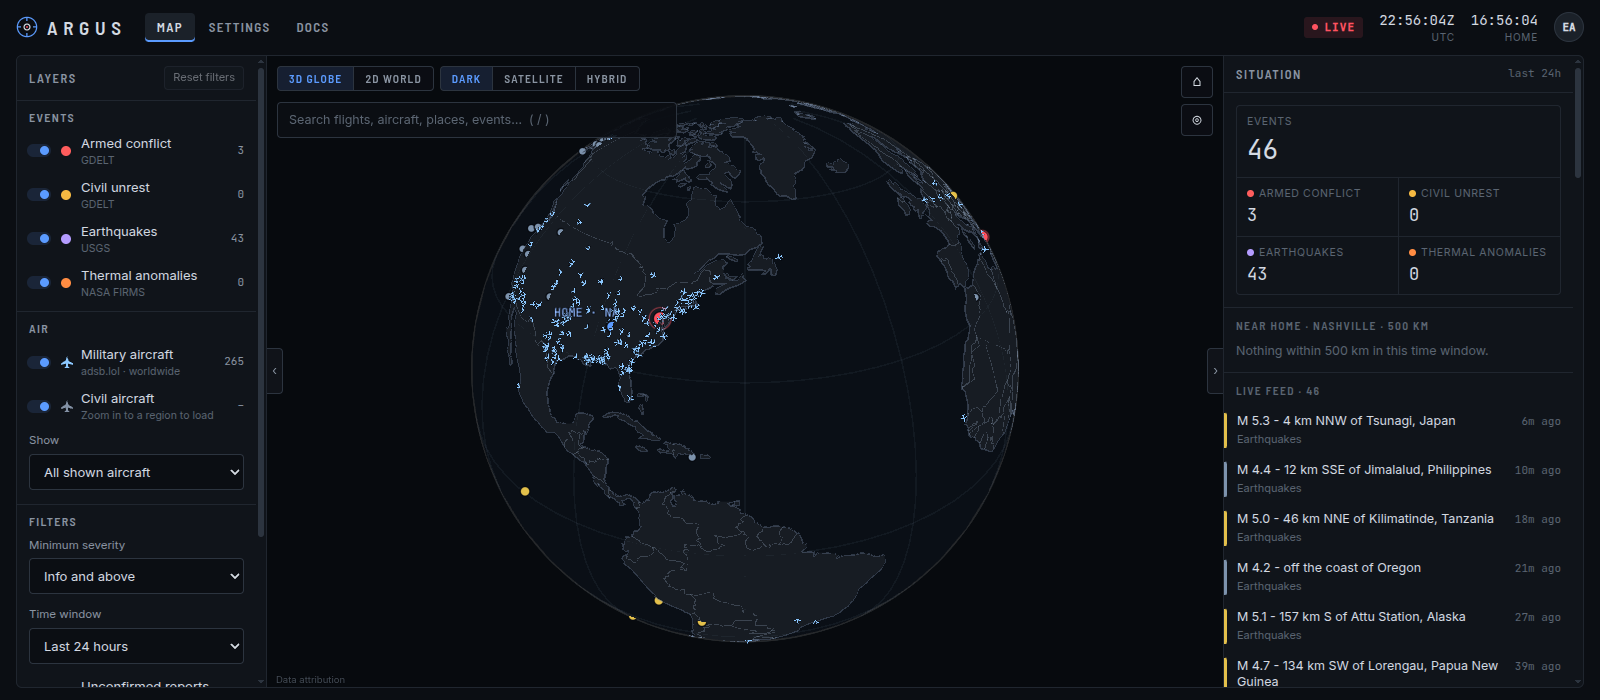
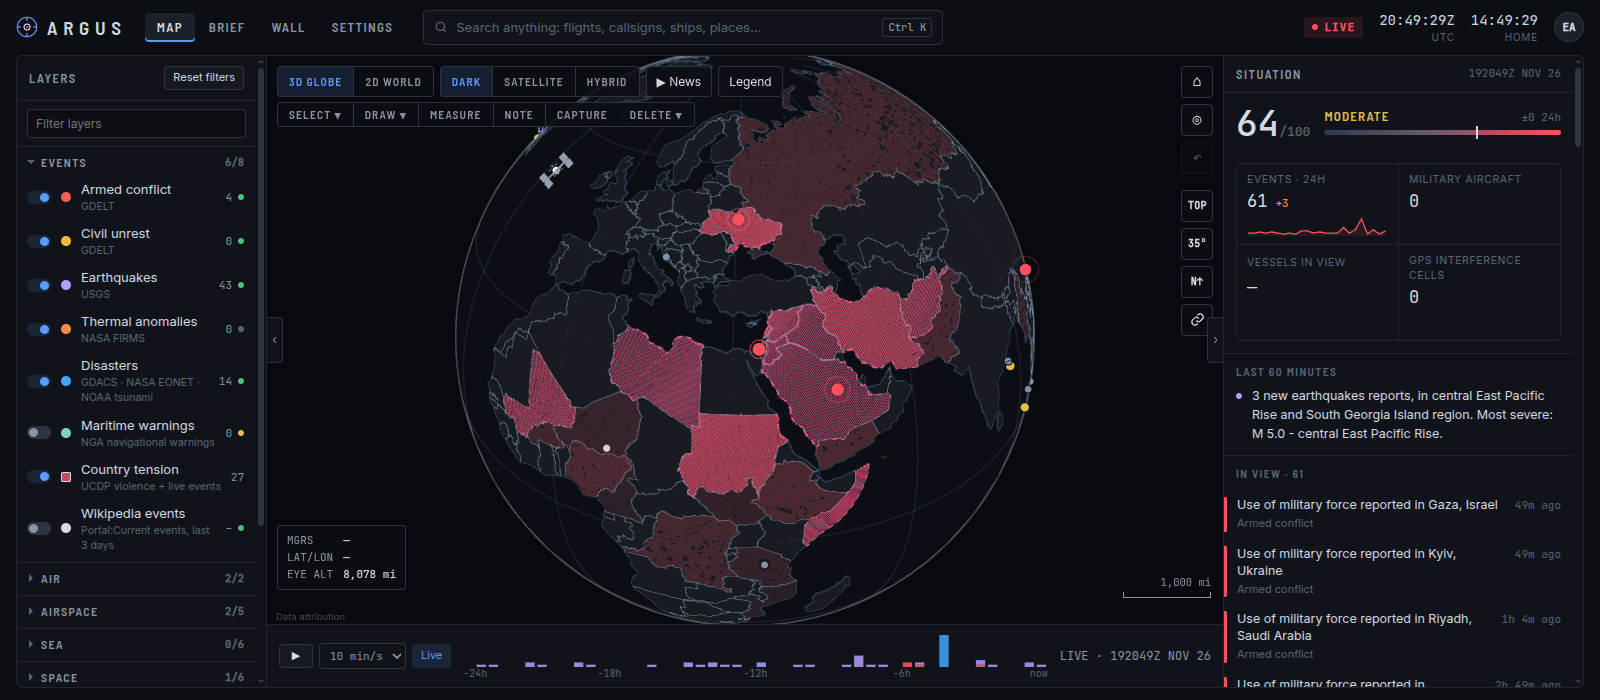
docs: fresh screenshots and features; simpler restore
The README shows today's map (tension, conflict zones), the Brief, the
Wall and a traffic camera, drops the old street-level shot, and lists
what Argus does now instead of calling weather, video and the Wall
coming next.

Restoring in Settings > Backups no longer asks you to type 'restore':
choose the file and the page shows what it is (when it was made,
version, size, read from the archive in the browser), then tick
'Replace all of this server's data', enter your password and Restore.

diff --git a/frontend/src/components/BackupsSection.tsx b/frontend/src/components/BackupsSection.tsx
@@ -8,6 +8,54 @@ import { csrfToken } from '../lib/api';
 // the accounts from the backup.
 
 type Status = { state: 'idle' | 'running' | 'done' | 'failed'; message: string };
+type Manifest = { created_utc?: string; version?: string; schema_revision?: string; database_bytes?: number };
+
+// The manifest inside a backup (.tar.gz), read in the browser so you can
+// see what you're about to restore. Null if it isn't readable.
+async function readManifest(file: File): Promise<Manifest | null> {
+  try {
+    const stream = file.stream().pipeThrough(new DecompressionStream('gzip'));
+    const reader = stream.getReader();
+    let buf = new Uint8Array(0);
+    // A tar is 512-byte headers each followed by the file; the manifest is
+    // small and usually near the start, but read until it turns up.
+    for (let offset = 0; ;) {
+      while (buf.length < offset + 512) {
+        const { value, done } = await reader.read();
+        if (done) return null;
+        const next = new Uint8Array(buf.length + value.length);
+        next.set(buf);
+        next.set(value, buf.length);
+        buf = next;
+      }
+      const header = buf.subarray(offset, offset + 512);
+      const name = new TextDecoder().decode(header.subarray(0, 100)).replace(/\0.*$/s, '');
+      if (!name) return null;
+      const size = parseInt(new TextDecoder().decode(header.subarray(124, 136)).replace(/\0.*$/s, '').trim() || '0', 8);
+      const start = offset + 512;
+      if (name.endsWith('/manifest.json')) {
+        while (buf.length < start + size) {
+          const { value, done } = await reader.read();
+          if (done) return null;
+          const next = new Uint8Array(buf.length + value.length);
+          next.set(buf);
+          next.set(value, buf.length);
+          buf = next;
+        }
+        void reader.cancel();
+        return JSON.parse(new TextDecoder().decode(buf.subarray(start, start + size))) as Manifest;
+      }
+      offset = start + Math.ceil(size / 512) * 512;
+      // Drop what's behind us so a big dump doesn't fill memory.
+      if (offset > 8 * 1024 * 1024) {
+        buf = buf.subarray(offset);
+        offset = 0;
+      }
+    }
+  } catch {
+    return null;
+  }
+}
 
 function detail(text: string, fallback: string): string {
   try {
@@ -25,7 +73,8 @@ export default function BackupsSection() {
 
   const [file, setFile] = useState<File | null>(null);
   const [pw2, setPw2] = useState('');
-  const [confirm, setConfirm] = useState('');
+  const [agree, setAgree] = useState(false);
+  const [manifest, setManifest] = useState<Manifest | null | 'reading'>(null);
   const [progress, setProgress] = useState<number | null>(null);
   const [status, setStatus] = useState<Status | null>(null);
   const [error, setError] = useState('');
@@ -92,14 +141,14 @@ export default function BackupsSection() {
     xhr.withCredentials = true;
     xhr.setRequestHeader('Content-Type', 'application/gzip');
     xhr.setRequestHeader('X-CSRF-Token', csrfToken());
-    xhr.setRequestHeader('X-Argus-Confirm', confirm.trim().toLowerCase());
+    xhr.setRequestHeader('X-Argus-Confirm', agree ? 'restore' : '');
     xhr.setRequestHeader('X-Argus-Password', pw2);
     xhr.upload.onprogress = (ev) => ev.lengthComputable && setProgress(ev.loaded / ev.total);
     xhr.onload = () => {
       setProgress(null);
       if (xhr.status === 202) {
         setPw2('');
-        setConfirm('');
+        setAgree(false);
         setStatus({ state: 'running', message: 'Restoring the backup…' });
         watch();
       } else {
@@ -151,6 +200,7 @@ export default function BackupsSection() {
         <form className="cbody" onSubmit={restore}>
           <p className="err small" style={{ margin: 0 }}>
             Restoring replaces <b>all</b> of this server&apos;s data with the backup&apos;s, including every account.
+            Choose the file, check what it is, tick the box and enter your password.
           </p>
           <p className="quiet small">
             The backup is checked and restored into a fresh database first; this server&apos;s data is only replaced
@@ -163,9 +213,33 @@ export default function BackupsSection() {
               id="rs-file"
               type="file"
               accept=".gz,.tgz,application/gzip"
-              onChange={(e) => setFile(e.target.files?.[0] ?? null)}
+              onChange={(e) => {
+                const f = e.target.files?.[0] ?? null;
+                setFile(f);
+                setAgree(false);
+                setManifest(f ? 'reading' : null);
+                if (f) void readManifest(f).then(setManifest);
+              }}
             />
           </div>
+          {file && manifest === 'reading' && <p className="quiet small">Reading the backup…</p>}
+          {file && manifest && manifest !== 'reading' && (
+            <p className="small">
+              Backup from{' '}
+              <b>{manifest.created_utc ? new Date(manifest.created_utc).toLocaleString() : 'an unknown time'}</b>
+              {manifest.version ? ', Argus ' + manifest.version : ''}
+              {manifest.database_bytes ? ', ' + (manifest.database_bytes / 1048576).toFixed(1) + ' MB of data' : ''}.
+            </p>
+          )}
+          {file && manifest === null && (
+            <p className="err small">This doesn&apos;t look like an Argus backup (no manifest found).</p>
+          )}
+          {file && (
+            <label className="agree">
+              <input type="checkbox" checked={agree} onChange={(e) => setAgree(e.target.checked)} />
+              <span>Replace all of this server&apos;s data, including every account, with this backup</span>
+            </label>
+          )}
           <div className="pairform">
             <div className="field">
               <label htmlFor="rs-pw">Your password</label>
@@ -177,13 +251,9 @@ export default function BackupsSection() {
                 onChange={(e) => setPw2(e.target.value)}
               />
             </div>
-            <div className="field">
-              <label htmlFor="rs-confirm">Type restore</label>
-              <input id="rs-confirm" value={confirm} autoComplete="off" onChange={(e) => setConfirm(e.target.value)} />
-            </div>
             <button
               className="btn danger"
-              disabled={!file || !pw2 || confirm.trim().toLowerCase() !== 'restore' || restoring}
+              disabled={!file || !agree || !pw2 || manifest === null || manifest === 'reading' || restoring}
             >
               Restore
             </button>

diff --git a/frontend/src/styles/panels.css b/frontend/src/styles/panels.css
@@ -392,3 +392,5 @@ tr.dimrow td { color: var(--dim); }
 .wikilist li.clickrow:hover { background: var(--surface-2); }
 .wikilist .srcs { display: flex; gap: 8px; font-size: 11px; }
 .wikilist .srcs a { color: var(--accent); }
+.agree { display: flex; gap: 8px; align-items: flex-start; font-size: 12.5px; cursor: pointer; margin: 4px 0; }
+.agree input { margin-top: 2px; }

diff --git a/README.md b/README.md
@@ -13,14 +13,13 @@
 </p>
 
 <p align="center">
-  <img src="docs/assets/screenshot-dark.png" alt="Argus: the default dark globe with live events and military aircraft" width="900">
+  <img src="docs/assets/screenshot-dark.png" alt="Argus: the dark globe with world tension, conflict zones and live events" width="900">
 </p>
 
 Argus is a self-hosted visualizer for open-source intelligence (OSINT). It brings conflict and
-protest reports, earthquakes, fires, aircraft and the news onto one 3D globe, and will add ships,
-satellites, airspace, infrastructure, weather and live video. Every marker shows where it came from
-and how sure Argus is about it, and the whole thing runs from one `docker compose up` with no paid
-keys.
+protest reports, earthquakes, fires, aircraft, ships, satellites, airspace, weather, cameras and
+the news onto one 3D globe. Every marker shows where it came from and how sure Argus is about it,
+and the whole thing runs from one `docker compose up` with no paid keys.
 
 What it does today:
 
@@ -46,7 +45,17 @@ What it does today:
 - **Airspace and interference.** FAA flight restrictions, SIGMETs, EASA conflict zone bulletins,
   restricted areas and control zones (with a free openAIP key), and GPS interference worked out
   from ADS-B accuracy.
-- **Infrastructure.** Power plants by fuel (nuclear named), submarine cables and military bases.
+- **Infrastructure.** Power plants by fuel (nuclear named), submarine cables, military bases and
+  licence plate reader cameras mapped in OpenStreetMap (the DeFlock dataset).
+- **World tension.** A per-country, theatre and world index anchored to UCDP conflict deaths, with
+  live events on top, tinting the map.
+- **Weather.** NWS warnings, watches and advisories (on their zone outlines), the SPC severe weather
+  outlook, satellite clouds and precipitation, and conditions at home.
+- **Cameras and video.** Traffic cameras from Caltrans, TDOT (with a key), DriveBC, London and
+  Finland, with stills and live video; webcams from Windy and live YouTube streams near the view
+  or about an event (with free keys).
+- **Context.** US and UK travel advisories by country and Wikipedia's current events, placed on
+  the map.
 - **Live news.** A floating player with tabs for 18 news channels and Ryan Hall, Y'all.
 - **Your own receivers.** readsb/tar1090 and AIS-catcher feeds merged into the map.
 - **Satellites.** About 17,000 from CelesTrak, by orbit (LEO, MEO, GEO, HEO, Starlink), moved
@@ -60,26 +69,39 @@ What it does today:
   and right, matched to the events they describe.
 - **A situation panel** with counts by type, what's near home, a live feed, headlines and the
   health of every source. Click any event for its sources, coverage and raw record.
+- **Brief and Wall.** A one-page brief for the start of a shift, and a hands-free watch-floor
+  view that tours the theatres, for TVs paired with a code and set up per screen.
+- **Map tools.** Select an area and export what's in it, draw and measure, notes, a timeline you
+  can replay, share links and PNG capture.
 - **First-run setup and accounts.**
   - A one-time setup token from the server log
   - Argon2id passwords and sessions with CSRF protection
   - Lockout and rate limiting, plus an audit log
   - More users with roles (admin, analyst, viewer, wall display) and temporary passwords
     they replace at first sign-in
+- **Running it.** Backups and restore from Settings or the command line, `./argus update`,
+  real visitor addresses behind a reverse proxy, and an optional self-signed certificate.
 - **Built-in documentation** at `/docs/`, including how every part connects.
 
-Coming next: weather, traffic and event video, wall mode for a
-watch-floor screen, balanced news coverage, alerts, and optional AI (Anthropic, OpenAI or a local
-model).
+Coming next: air and sea patterns, more hazards, space weather and launches, Sentinel imagery,
+alerts, and optional AI (Anthropic, OpenAI or a local model).
 
 <table>
   <tr>
-    <td><img src="docs/assets/screenshot-aircraft.png" alt="Following a flight with its route and progress" width="440"></td>
-    <td><img src="docs/assets/screenshot-satellite.png" alt="Satellite view at street level" width="440"></td>
+    <td><img src="docs/assets/screenshot-brief.png" alt="The Brief: theatres, top events and changes since yesterday" width="440"></td>
+    <td><img src="docs/assets/screenshot-wall.png" alt="The Wall touring the Middle East with world tension and top events" width="440"></td>
   </tr>
   <tr>
+    <td align="center"><sub>Brief: the start-of-shift overview</sub></td>
+    <td align="center"><sub>Wall: the watch-floor tour</sub></td>
+  </tr>
+  <tr>
+    <td><img src="docs/assets/screenshot-cameras.png" alt="Traffic cameras in Los Angeles with a live still" width="440"></td>
+    <td><img src="docs/assets/screenshot-aircraft.png" alt="Following a flight with its route and progress" width="440"></td>
+  </tr>
+  <tr>
+    <td align="center"><sub>Traffic cameras: stills and live video</sub></td>
     <td align="center"><sub>Aircraft: search, follow, route</sub></td>
-    <td align="center"><sub>Satellite, street level</sub></td>
   </tr>
 </table>
 

diff --git a/docs-site/docs/admin/backups.md b/docs-site/docs/admin/backups.md
@@ -41,8 +41,10 @@ password:
 - **Download backup** saves the same kind of archive as `make backup`
   (the database and the secret key that unlocks stored data-source keys;
   not the rest of `.env`).
-- **Restore** uploads an archive (from either place) and replaces all of
-  this server's data with it, after you type `restore`. It is restored
+- **Restore**: choose the archive (from either place) and the page shows
+  when it was made, its Argus version and size; tick **Replace all of
+  this server's data**, enter your password and press **Restore**. It is
+  restored
   into a fresh database first and only swapped in once that has worked,
   so a damaged file changes nothing. Stored data-source keys are moved to
   this server's secret key, so a backup from another server works too.
